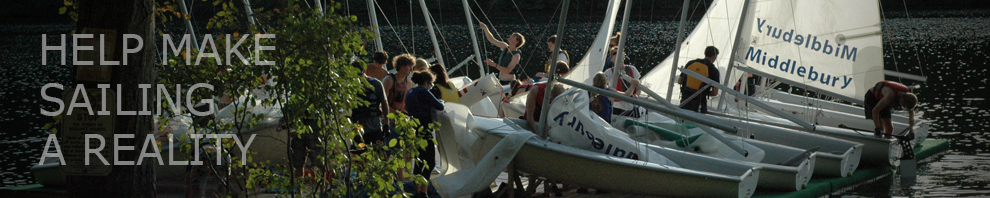
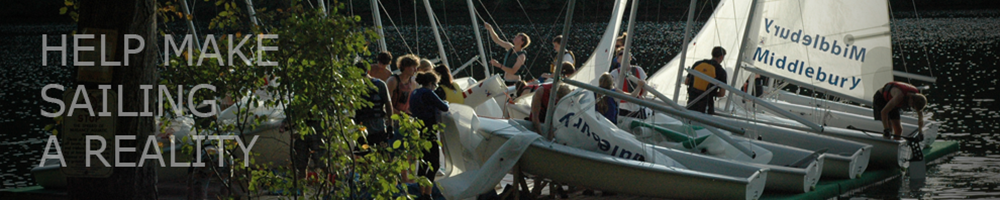
Commit after successful slideshow redesign

Changed region(s): [[0.2424, 0.2121, 0.2727, 0.2727], [0.7576, 0.2727, 0.7879, 0.303], [0.1212, 0.7273, 0.1515, 0.7576]]

diff --git a/style.css b/style.css
@@ -597,11 +597,37 @@ body{
 	margin-bottom: 0;
 	width: inherit;
 	height: 200px;
-	background: url(img/banners/slideshow.jpg) no-repeat;
-	-webkit-animation:slideshow 20s infinite;
-	-moz-animation:slideshow 20s infinite;
-	-ms-animation:slideshow 20s infinite;
-	-o-animation:slideshow 20s infinite;
+	position: relative;
+}
+.slideshow_image{
+	width: inherit;
+	height: inherit;
+	position: absolute;
+}
+#banner1.slideshow_image{
+	background: url(img/donate.png) no-repeat;
+	z-index: 28;
+	-moz-animation: slideshow 30s infinite;
+}
+#banner2.slideshow_image{
+	background: url(img/join_sailing.png) no-repeat;
+	z-index: 29;
+	-moz-animation: slideshow 30s infinite;
+	-moz-animation-delay: 10s;
+}
+#banner3.slideshow_image{
+	background: url(img/regatta_team.png) no-repeat;
+	z-index: 30;
+	-moz-animation: slideshow 30s infinite;
+	-moz-animation-delay: 20s;
+}
+@-moz-keyframes slideshow{
+	0%{z-index: 100; opacity: 0;}
+	15%{z-index: 100; opacity: 1}
+	33%{z-index: 100; opacity: 1;}
+	34%{z-index: 50; opacity: 1}
+	66%{z-index: 10;opacity: 1}
+	100%{z-index: 10; opacity: 1;}
 }
 #banner{
 	width: inherit;
@@ -724,68 +750,6 @@ th, td{
 	width: 570px;
 	float: left;
 }
-/* Slideshow Animations */
-@-webkit-keyframes slideshow{
-	0% {opacity: 1;background-position: 0px 0px;}
-	20% {opacity: 1;background-position: 0px 0px;}
-	26% {opacity: 0;background-position: 0px 0px;}
-	27% {opacity: 0;background-position: 0px -200px;}
-	33% {opacity: 1;background-position: 0px -200px;}
-	54% {opacity: 1;background-position: 0px -200px;}
-	60% {opacity: 0;background-position: 0px -200px;}
-	61% {opacity: 0;background-position: 0px -400px;}
-	66% {opacity: 1;background-position: 0px -400px;}
-	87% {opacity: 1;background-position: 0px -400px;}
-	91% {opacity: 0;background-position: 0px -400px;}
-	92% {opacity: 0;background-position: 0px 0px;}
-	100% {opacity: 1;background-position: 0px 0px;}
-}
-@-moz-keyframes slideshow{
-	0% {opacity: 1;background-position: 0px 0px;}
-	20% {opacity: 1;background-position: 0px 0px;}
-	26% {opacity: 0;background-position: 0px 0px;}
-	27% {opacity: 0;background-position: 0px -200px;}
-	33% {opacity: 1;background-position: 0px -200px;}
-	54% {opacity: 1;background-position: 0px -200px;}
-	60% {opacity: 0;background-position: 0px -200px;}
-	61% {opacity: 0;background-position: 0px -400px;}
-	66% {opacity: 1;background-position: 0px -400px;}
-	87% {opacity: 1;background-position: 0px -400px;}
-	91% {opacity: 0;background-position: 0px -400px;}
-	92% {opacity: 0;background-position: 0px 0px;}
-	100% {opacity: 1;background-position: 0px 0px;}
-}
-@-ms-keyframes slideshow{
-	0% {opacity: 1;background-position: 0px 0px;}
-	20% {opacity: 1;background-position: 0px 0px;}
-	26% {opacity: 0;background-position: 0px 0px;}
-	27% {opacity: 0;background-position: 0px -200px;}
-	33% {opacity: 1;background-position: 0px -200px;}
-	54% {opacity: 1;background-position: 0px -200px;}
-	60% {opacity: 0;background-position: 0px -200px;}
-	61% {opacity: 0;background-position: 0px -400px;}
-	66% {opacity: 1;background-position: 0px -400px;}
-	87% {opacity: 1;background-position: 0px -400px;}
-	91% {opacity: 0;background-position: 0px -400px;}
-	92% {opacity: 0;background-position: 0px 0px;}
-	100% {opacity: 1;background-position: 0px 0px;}
-}
-@-o-keyframes slideshow{
-	0% {opacity: 1;background-position: 0px 0px;}
-	20% {opacity: 1;background-position: 0px 0px;}
-	26% {opacity: 0;background-position: 0px 0px;}
-	27% {opacity: 0;background-position: 0px -200px;}
-	33% {opacity: 1;background-position: 0px -200px;}
-	54% {opacity: 1;background-position: 0px -200px;}
-	60% {opacity: 0;background-position: 0px -200px;}
-	61% {opacity: 0;background-position: 0px -400px;}
-	66% {opacity: 1;background-position: 0px -400px;}
-	87% {opacity: 1;background-position: 0px -400px;}
-	91% {opacity: 0;background-position: 0px -400px;}
-	92% {opacity: 0;background-position: 0px 0px;}
-	100% {opacity: 1;background-position: 0px 0px;}
-}
-
 /* Loop */
 #loop_header {
 	margin-left: 125px;
@@ -884,24 +848,6 @@ th, td{
 	width: 200px;
 	float: right;
 }
-
-
-
-
-
-
-
-
-
-
-
-
-
-
-
-
-
-
 
 
 

diff --git a/header.php b/header.php
@@ -6,7 +6,6 @@
 	<meta name="author" content="" />
 	<meta name="description" content="" />
 	<meta name="keywords" content="" />
-	<link href="http://fonts.googleapis.com/css?family=PT+Sans:400,700" rel="stylesheet" type="text/css"> 	
 	<link rel="stylesheet" type="text/css" href="<?php bloginfo("stylesheet_url"); ?>" media="all" />
 	<script type="text/javascript" src="<?php bloginfo("stylesheet_url"); ?>/js/script.js"></script>
 	<?php wp_head(); ?> 

diff --git a/index.php b/index.php
@@ -1,6 +1,10 @@
 <?php get_header(); ?>
 
-<div id="slideshow"></div>
+<div id="slideshow">
+	<a href="<?php bloginfo('url'); ?>/friends/" class="slideshow_image" id="banner1"></a>
+	<a href="<?php bloginfo('url'); ?>/recpe/" class="slideshow_image" id="banner2"></a>
+	<a href="<?php bloginfo('url'); ?>/race/" class="slideshow_image" id="banner3"></a>
+</div>
 
 <div id="content">
 

diff --git a/page.php b/page.php
@@ -1,6 +1,9 @@
 <?php get_header(); ?>
 
 <div id="slideshow">
+	<a href="<?php bloginfo('url'); ?>/friends/" class="slideshow_image" id="banner1"></a>
+	<a href="<?php bloginfo('url'); ?>/recpe/" class="slideshow_image" id="banner2"></a>
+	<a href="<?php bloginfo('url'); ?>/race/" class="slideshow_image" id="banner3"></a>
 </div>
 
 <div id="content">
